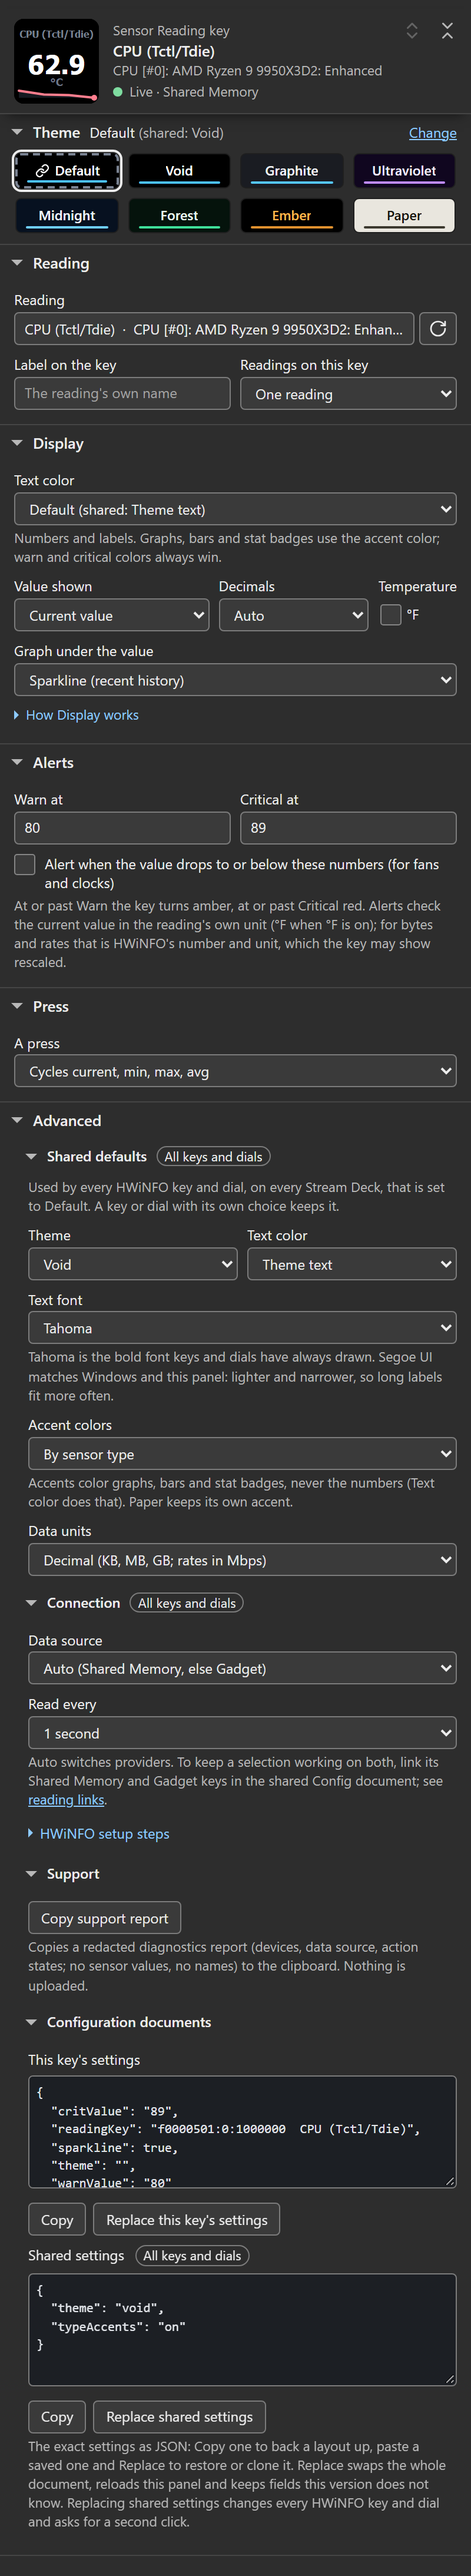
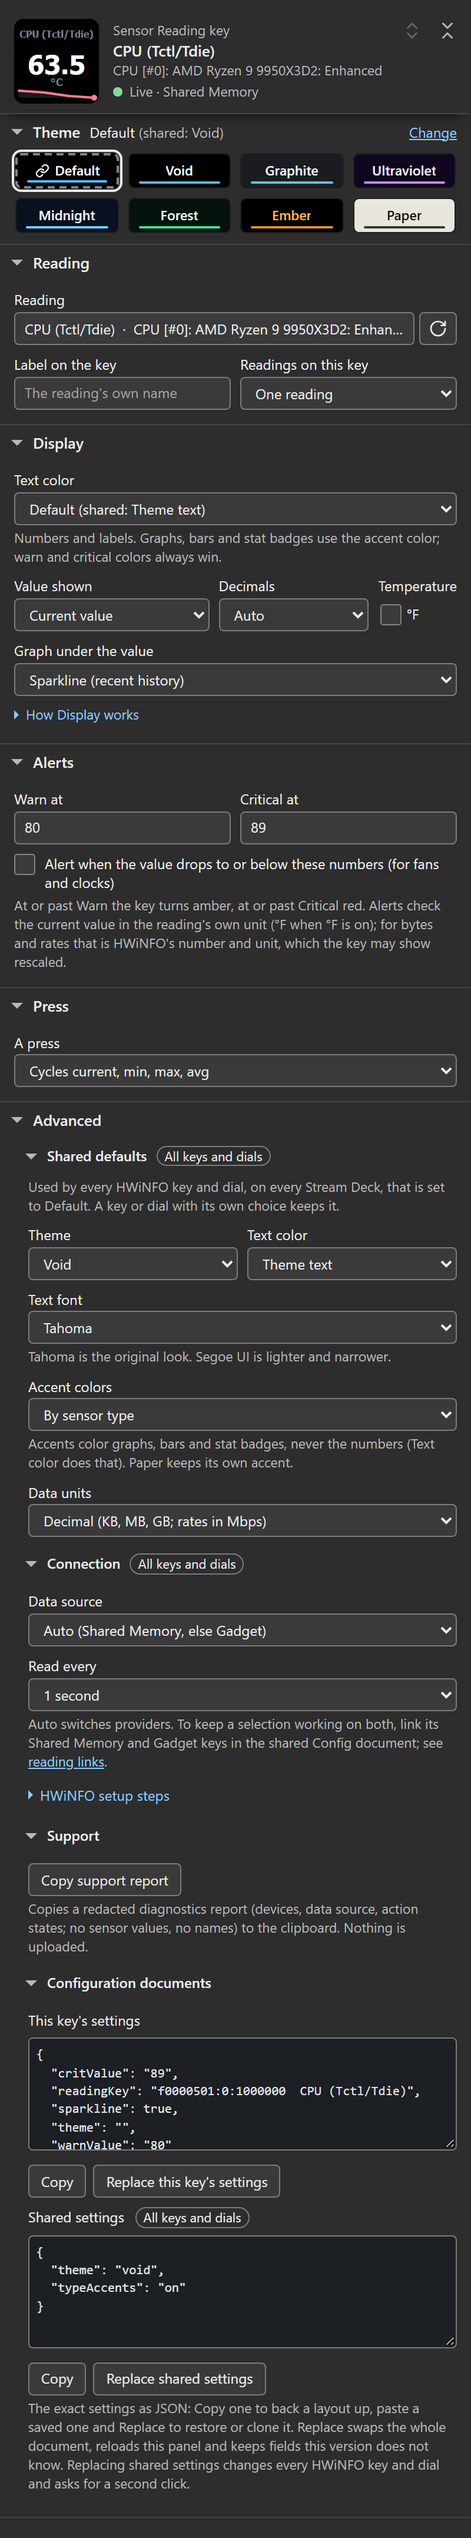
fix(panel): the Text font help on one line
Tahoma is the original look. Segoe UI is lighter and narrower. Panel build
1.7.0.0-d23; the settings-panel, Advanced and reading-colors captures are
retaken.

diff --git a/com.lawrensen.hwinfo.sdPlugin/ui/sensor-reading.html b/com.lawrensen.hwinfo.sdPlugin/ui/sensor-reading.html
@@ -5,7 +5,7 @@
 		<title>Sensor Reading settings</title>
 		<script src="sdpi-components.js"></script>
 		<!-- ?v= busts the webview cache; bump it with the plugin version. -->
-		<link rel="stylesheet" href="pi.css?v=1.7.0.0-d22" />
+		<link rel="stylesheet" href="pi.css?v=1.7.0.0-d23" />
 	</head>
 	<body data-kind="key">
 		<header class="hw-head" id="hw-head" data-kind="key" data-pin>
@@ -375,7 +375,7 @@
 								<option value="tahoma">Tahoma</option>
 								<option value="segoe-ui">Segoe UI</option>
 							</select>
-							<p class="hw-help" id="font-help">Tahoma is the bold font keys and dials have always drawn. Segoe UI matches Windows and this panel: lighter and narrower, so long labels fit more often.</p>
+							<p class="hw-help" id="font-help">Tahoma is the original look. Segoe UI is lighter and narrower.</p>
 						</div>
 						<div class="hw-field">
 							<label for="shared-accents">Accent colors</label>
@@ -465,9 +465,9 @@
 			</div>
 		</details>
 
-		<script src="pi-model.js?v=1.7.0.0-d22"></script>
-		<script src="pi-shell.js?v=1.7.0.0-d22"></script>
-		<script src="pi-common.js?v=1.7.0.0-d22"></script>
-		<script src="pi-control.js?v=1.7.0.0-d22"></script>
+		<script src="pi-model.js?v=1.7.0.0-d23"></script>
+		<script src="pi-shell.js?v=1.7.0.0-d23"></script>
+		<script src="pi-common.js?v=1.7.0.0-d23"></script>
+		<script src="pi-control.js?v=1.7.0.0-d23"></script>
 	</body>
 </html>

diff --git a/com.lawrensen.hwinfo.sdPlugin/ui/sensor-dial.html b/com.lawrensen.hwinfo.sdPlugin/ui/sensor-dial.html
@@ -5,7 +5,7 @@
 		<title>Sensor Dial settings</title>
 		<script src="sdpi-components.js"></script>
 		<!-- ?v= busts the webview cache; bump it with the plugin version. -->
-		<link rel="stylesheet" href="pi.css?v=1.7.0.0-d22" />
+		<link rel="stylesheet" href="pi.css?v=1.7.0.0-d23" />
 	</head>
 	<body data-kind="dial">
 		<header class="hw-head" id="hw-head" data-kind="dial" data-pin>
@@ -404,7 +404,7 @@
 								<option value="tahoma">Tahoma</option>
 								<option value="segoe-ui">Segoe UI</option>
 							</select>
-							<p class="hw-help" id="font-help">Tahoma is the bold font keys and dials have always drawn. Segoe UI matches Windows and this panel: lighter and narrower, so long labels fit more often.</p>
+							<p class="hw-help" id="font-help">Tahoma is the original look. Segoe UI is lighter and narrower.</p>
 						</div>
 						<div class="hw-field">
 							<label for="shared-accents">Accent colors</label>
@@ -494,9 +494,9 @@
 			</div>
 		</details>
 
-		<script src="pi-model.js?v=1.7.0.0-d22"></script>
-		<script src="pi-shell.js?v=1.7.0.0-d22"></script>
-		<script src="pi-common.js?v=1.7.0.0-d22"></script>
-		<script src="pi-control.js?v=1.7.0.0-d22"></script>
+		<script src="pi-model.js?v=1.7.0.0-d23"></script>
+		<script src="pi-shell.js?v=1.7.0.0-d23"></script>
+		<script src="pi-common.js?v=1.7.0.0-d23"></script>
+		<script src="pi-control.js?v=1.7.0.0-d23"></script>
 	</body>
 </html>

diff --git a/com.lawrensen.hwinfo.sdPlugin/ui/control.html b/com.lawrensen.hwinfo.sdPlugin/ui/control.html
@@ -5,7 +5,7 @@
 		<title>HWiNFO Control settings</title>
 		<script src="sdpi-components.js"></script>
 		<!-- ?v= busts the webview cache; bump it with the plugin version. -->
-		<link rel="stylesheet" href="pi.css?v=1.7.0.0-d22" />
+		<link rel="stylesheet" href="pi.css?v=1.7.0.0-d23" />
 	</head>
 	<body data-kind="control">
 		<header class="hw-head" id="hw-head" data-kind="control">
@@ -72,9 +72,9 @@
 			</div>
 		</details>
 
-		<script src="pi-model.js?v=1.7.0.0-d22"></script>
-		<script src="pi-shell.js?v=1.7.0.0-d22"></script>
-		<script src="pi-command.js?v=1.7.0.0-d22"></script>
-		<script src="pi-control.js?v=1.7.0.0-d22"></script>
+		<script src="pi-model.js?v=1.7.0.0-d23"></script>
+		<script src="pi-shell.js?v=1.7.0.0-d23"></script>
+		<script src="pi-command.js?v=1.7.0.0-d23"></script>
+		<script src="pi-control.js?v=1.7.0.0-d23"></script>
 	</body>
 </html>

diff --git a/com.lawrensen.hwinfo.sdPlugin/ui/detail-slot.html b/com.lawrensen.hwinfo.sdPlugin/ui/detail-slot.html
@@ -3,7 +3,7 @@
 	<head>
 		<meta charset="utf-8" />
 		<title>Sensor detail tile</title>
-		<link rel="stylesheet" href="pi.css?v=1.7.0.0-d22" />
+		<link rel="stylesheet" href="pi.css?v=1.7.0.0-d23" />
 	</head>
 	<body data-kind="slot">
 		<!-- This tile has no settings of its own: its role is baked into the
@@ -21,6 +21,6 @@
 			<p class="hw-lede" id="slot-explain">This tile belongs to the plugin-managed sensor detail view and has no settings of its own.</p>
 			<p class="hw-lede">To change what the view lists, its title or its look, go back and select the Sensor Reading key that opened it, then open its Press section. The Back tile at the top left returns to the profile you came from.</p>
 		</div>
-		<script src="pi-slot.js?v=1.7.0.0-d22"></script>
+		<script src="pi-slot.js?v=1.7.0.0-d23"></script>
 	</body>
 </html>

diff --git a/com.lawrensen.hwinfo.sdPlugin/ui/pi-common.js b/com.lawrensen.hwinfo.sdPlugin/ui/pi-common.js
@@ -15,7 +15,7 @@
 	// Build stamp: the panel names the code it actually runs, because the
 	// webview outlives on-disk refreshes and caches sub-resources. Read
 	// window.__hwPiVersion (or the console line) before trusting a repro.
-	const PI_BUILD = "1.7.0.0-d22";
+	const PI_BUILD = "1.7.0.0-d23";
 	window.__hwPiVersion = PI_BUILD;
 	console.log(`hwinfo PI build ${PI_BUILD}`);
 

diff --git a/docs/sensor-dial.md b/docs/sensor-dial.md
@@ -84,7 +84,7 @@ measurement to avoid that.
 
 ![The Display section of the dial's settings panel: Text color on Theme text, View on Overview (three rows), Row labels on Always full labels, Color numbers by sensor type unticked, and Reading colors on Signal (four hues), with a color well and an Auto button for each reading: CPU Temp blue, GPU Temp pink, Pump green, GPU Power gold and GPU Load blue.]({{ '/assets/img/pi-dial-reading-colors-1.7.png' | relative_url }})
 
-*An actual settings-panel capture at panel build 1.7.0.0-d22 (the marker in its title bar), served by the local test host with live HWiNFO Shared Memory readings.*
+*An actual settings-panel capture at panel build 1.7.0.0-d23 (the marker in its title bar), served by the local test host with live HWiNFO Shared Memory readings.*
 
 ![Three-row and two-row dial examples comparing automatic text with individual reading colors. CPU temperature is blue, GPU temperature pink, pump speed green, GPU power gold and GPU load blue.]({{ '/assets/img/dial-reading-colors-1.7.png' | relative_url }})
 
